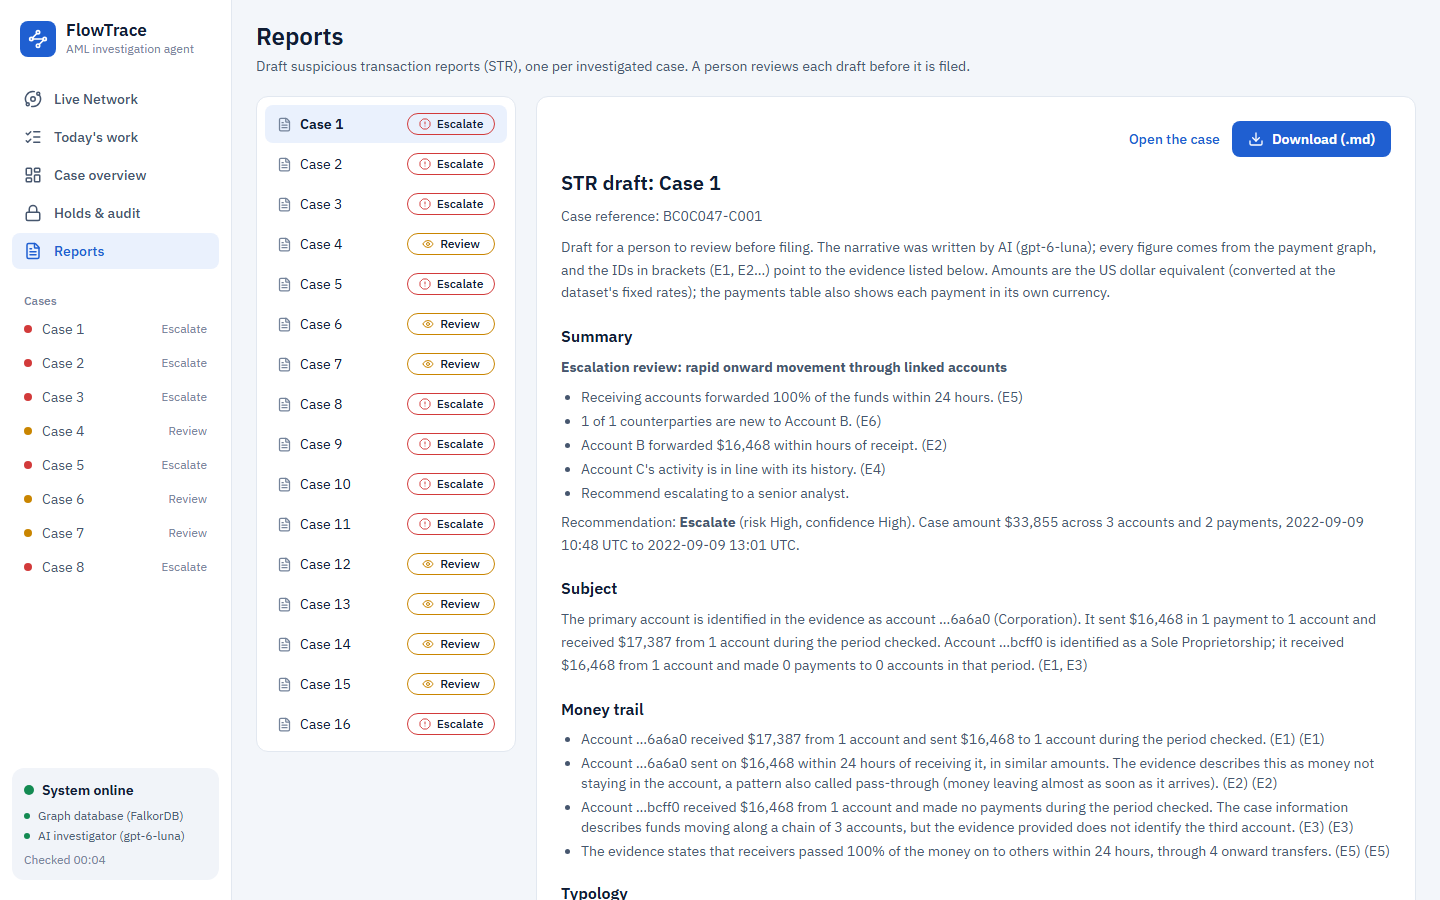
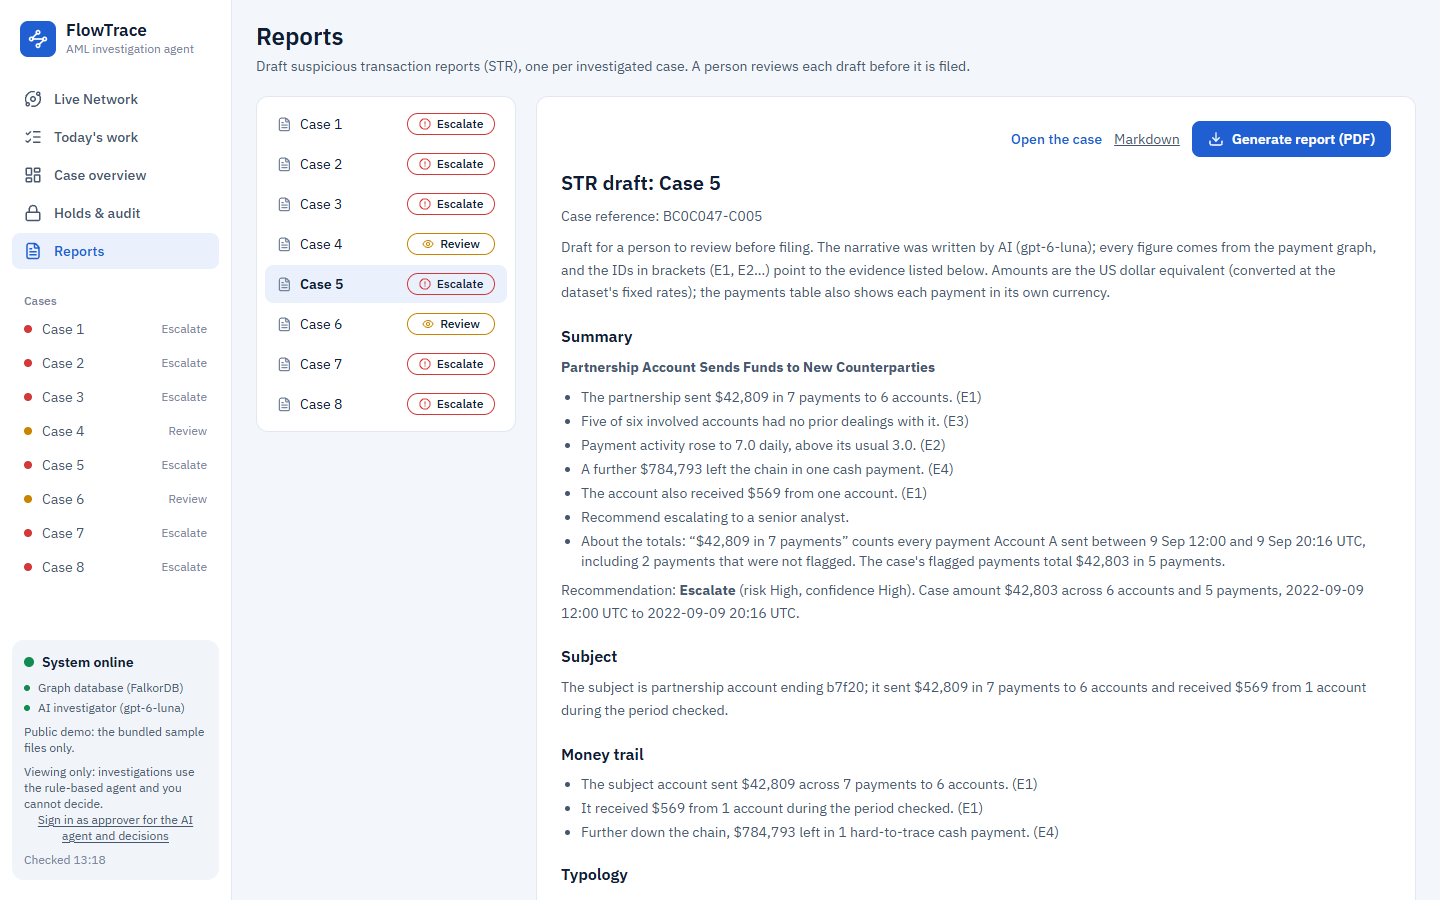
README screenshots retaken on the live site; captions match what each shows
- Every README image retaken on https://flowtrace.omsharma.dev at 1440x900, light theme, signed out
  except the confirm/release panel (approver sign-in, empty name, nothing clicked).
- The approved-hold image leaves the README (no approvals on the live demo); the Reports page (STR draft)
  takes its place. demo-view-only.png was unused and is deleted.
- docs/sample-report.pdf is the live case 5 report, matching the PDF image.

diff --git a/docs/architecture.md b/docs/architecture.md
@@ -166,13 +166,13 @@ The server needs FalkorDB and the cases the app saved (`data/runs`), but not the
 
 ## The screens, one by one
 
-All screenshots are from the real app on the curated sample day (`demo_mixed_2022-09-09.csv`), at laptop width.
+All screenshots are from the real app on the curated sample day (`demo_mixed_2022-09-09.csv`), at laptop width. Screens 2–4 and 6–9 were taken on the live demo; screens 1 and 5 come from an earlier local run.
 
 **1. Upload a day of payments**, or try the sample day. The steps show while the file is processed.
 
 ![Upload in progress](screenshots/upload.png)
 
-**2. Today's work.** 2,271 payments become 40 flagged payments and 17 cases. The 15 with the highest chance of laundering are today's work; the other 2 are folded under *Lower priority*. The agent investigates the top 15 in the background. The sidebar lists the top cases with a dot for their disposition, and "System online" comes from `/api/health` (graph database and AI investigator). This is the curated demo sample; full-day numbers are in [Results](evaluation.md#results-measured-reproduce-with-the-commands-below).
+**2. Today's work.** 2,271 payments become 40 flagged payments and 17 cases. The 15 with the highest chance of laundering are today's work; the other 2 are folded under *Lower priority*. On a local run the agent investigates the top 15 in the background; on the public demo nothing runs in the background, and here cases 1–8 were investigated by the AI agent. The sidebar lists the top cases with a dot for their disposition, and "System online" comes from `/api/health` (graph database and AI investigator). This is the curated demo sample; full-day numbers are in [Results](evaluation.md#results-measured-reproduce-with-the-commands-below).
 
 ![Today's work: ranked cases](screenshots/todays-work.png)
 
@@ -185,17 +185,19 @@ All screenshots are from the real app on the curated sample day (`demo_mixed_202
 
 Every amount is the **USD equivalent** (the dataset's payments in other currencies are converted at its fixed rates), and each payment row also shows the payment in its own currency (EUR, SAR, BRL…).
 
+The screenshot shows case 5's money flow, key findings and summary.
+
 ![Case overview](screenshots/case-overview.png)
 
-**4. The agent acts: recommended next step.** After an escalation, the agent proposes which accounts to hold. A hold freezes only the case money traced into an account, never its whole balance. The headline is the money frozen now. The bar splits the case money into frozen now, still in the trail, and already gone (cash, crypto, another currency or a merchant). Every hold, and the case decision (here: file an STR), waits for a person. Nothing starts ticked, and holds and the case decision are approved or rejected separately. A proposed hold shows when it would end before anyone approves it.
+**4. The agent acts: recommended next step.** After an escalation, the agent proposes which accounts to hold. A hold freezes only the case money traced into an account, never its whole balance. The headline is the money frozen now. The bar splits the case money into frozen now, still in the trail, and already gone (cash, crypto, another currency or a merchant). Every hold, and the case decision (here: file an STR), waits for a person. Nothing starts ticked, and holds and the case decision are approved or rejected separately. A proposed hold shows when it would end before anyone approves it. Here, case 5's three holds were placed provisionally by the agent (auto-hold) and wait for a person to confirm or release them.
 
-![Proposed holds on a case](screenshots/holds.png)
+![Provisional holds waiting for a person](screenshots/holds.png)
 
 **5. A person decides.** Approve or Reject needs the person's name (asked once) and a written reason, and the server checks its approver token. An approved hold shows who approved it, why, and a live countdown to its automatic release.
 
 ![Approved hold and STR filing](screenshots/approve.png)
 
-**6. Live investigation.** The agent's steps stream onto the case page as it works: what it checked, why, and what it found. The stepper maps the case to its real states: alert received, scored, graph investigation, report, analyst review.
+**6. Live investigation.** The agent's checks stream onto the case page as it works: what it checked and what each check found, then the report is written (here case 9, four checks in). The stepper at the top of the page maps the case to its real states: alert received, scored, graph investigation, report, analyst review.
 
 ![Investigation streaming live](screenshots/investigation.png)
 
@@ -203,7 +205,7 @@ Every amount is the **USD equivalent** (the dataset's payments in other currenci
 
 ![Holds and audit log](screenshots/results.png)
 
-**8. Reports.** The STR draft of every investigated case, built from the report, the evidence, the proposed actions and what people decided. It downloads as Markdown.
+**8. Reports.** The STR draft of every investigated case, built from the report, the evidence, the proposed actions and what people decided. It downloads as Markdown. When the AI quotes an account's totals for the whole window, a note under the summary says which figure is which, as on the case page.
 
 ![STR draft](screenshots/reports.png)
 
@@ -220,10 +222,10 @@ analyst or a compliance officer:
 It is built from the case page's own overview, so the numbers match. Long lists end with "+N more", and each page is
 shrunk to fit, so it never runs to a third page. It prints well in black and white. It is made in Python with
 reportlab (no browser, no system packages). Sample: [docs/sample-report.pdf](sample-report.pdf) (case 5 of the
-curated demo day, with one hold approved, one rejected and one still proposed).
+curated demo day, with three holds placed provisionally by the agent and waiting for a person).
 
 ![PDF case report, pages 1 and 2](screenshots/report-pdf.png)
 
-**9. Live Network.** The 3D map of every payment in the file, with the open case highlighted and the agent's money trace drawn as it runs. *View full graph* on a case opens it here.
+**9. Live Network.** The 3D map of every payment in the file, with the open case highlighted (here case 5 and its trail) and the agent's money trace drawn as it runs. *View full graph* on a case opens it here.
 
 ![Live Network](screenshots/live-network.png)

diff --git a/README.md b/README.md
@@ -64,14 +64,14 @@ the decision (Escalate / Review / Close) and the holds are computed in code. Det
 
 ## See it work
 
-All screenshots are from the real app on the curated sample day (2,271 payments).
+All screenshots are from the live app on the curated sample day (2,271 payments).
 
 | | |
 |---|---|
-| ![Today's work: ranked cases](docs/screenshots/todays-work.png) **Today's work.** 40 flagged payments become 17 cases; the top 15 are today's work. | ![Case overview](docs/screenshots/case-overview.png) **Case overview.** Key findings with confidence, and the money flow from sender to destination. |
-| ![Investigation streaming live](docs/screenshots/investigation.png) **Live investigation.** Each step streams in: what the agent checked, why, and what it found. | ![Proposed holds on a case](docs/screenshots/holds.png) **The agent acts.** It proposes holds. The bar shows money frozen now, still in the trail, and already gone. |
-| ![Approved hold and STR filing](docs/screenshots/approve.png) **A person decides.** Approve or reject needs a name and a written reason. | ![Holds and audit log](docs/screenshots/results.png) **Holds & audit.** Holds with live countdowns, and the append-only audit log. |
-| ![PDF case report, pages 1 and 2](docs/screenshots/report-pdf.png) **PDF case report.** Two pages for an analyst or compliance officer. [Sample PDF](docs/sample-report.pdf). | ![Live Network](docs/screenshots/live-network.png) **Live Network.** Every payment in 3D, with the agent's money trace drawn as it runs. |
+| ![Today's work: ranked cases](docs/screenshots/todays-work.png) **Today's work.** 2,271 payments, 40 flagged, 17 cases, ranked by the chance of laundering. | ![Case overview](docs/screenshots/case-overview.png) **Case overview.** The money flow from sender to receivers, and the key findings with their confidence. |
+| ![Investigation streaming live](docs/screenshots/investigation.png) **Live investigation.** Each check streams in with what it found; then the agent writes the report. | ![Confirm or release holds](docs/screenshots/holds.png) **A person decides.** The agent's provisional holds wait for a person to confirm or release them, with a name and a reason. |
+| ![Holds and audit](docs/screenshots/results.png) **Holds & audit.** Money frozen today, holds with live countdowns, and the cases waiting for a person. | ![STR draft](docs/screenshots/reports.png) **Reports.** The STR draft for each investigated case, with evidence IDs on every point. |
+| ![PDF case report, pages 1 and 2](docs/screenshots/report-pdf.png) **PDF case report.** Two pages for an analyst or compliance officer. [Sample PDF](docs/sample-report.pdf). | ![Live Network](docs/screenshots/live-network.png) **Live Network.** Every payment in 3D, with the open case and its money trail highlighted. |
 
 ## Why a graph
 
